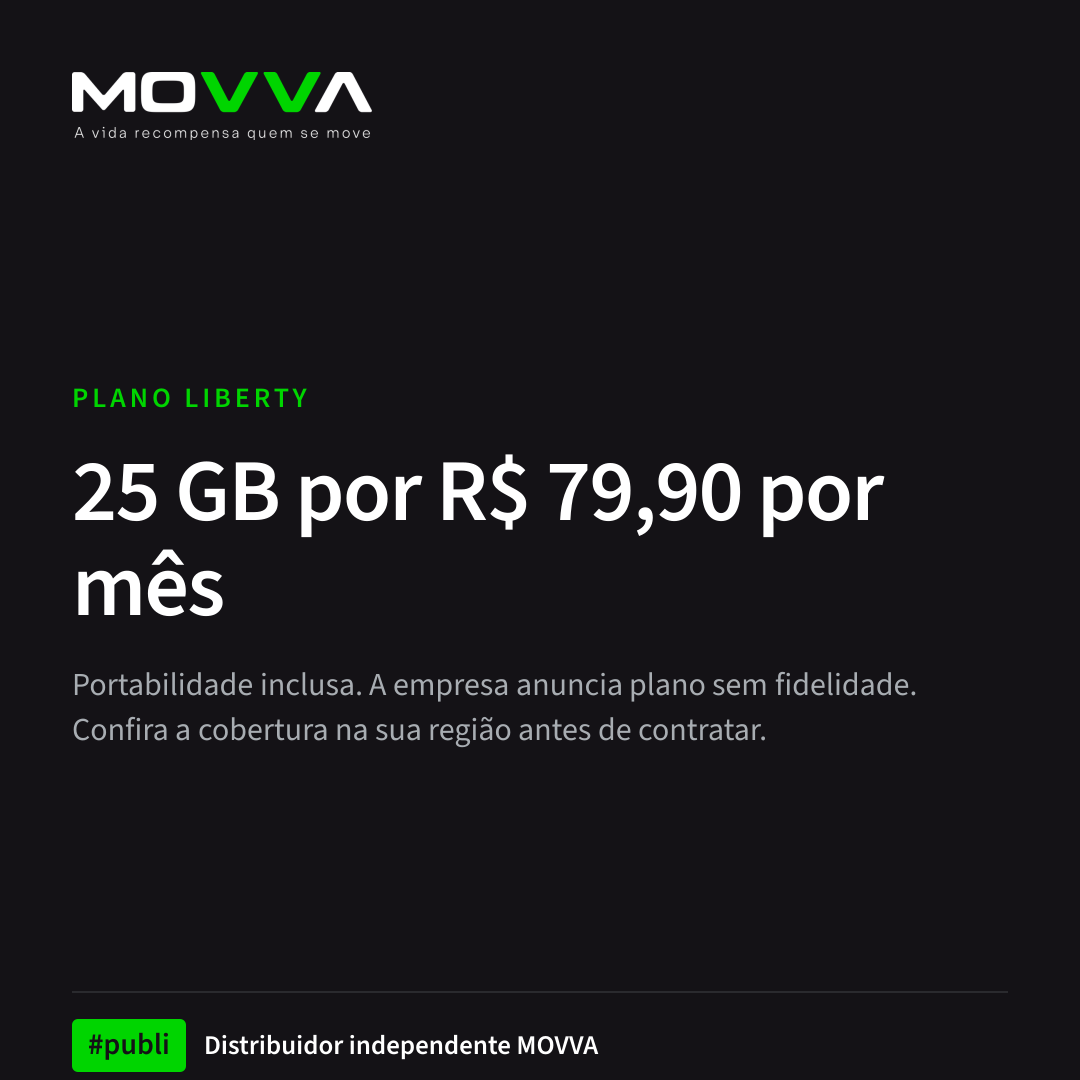
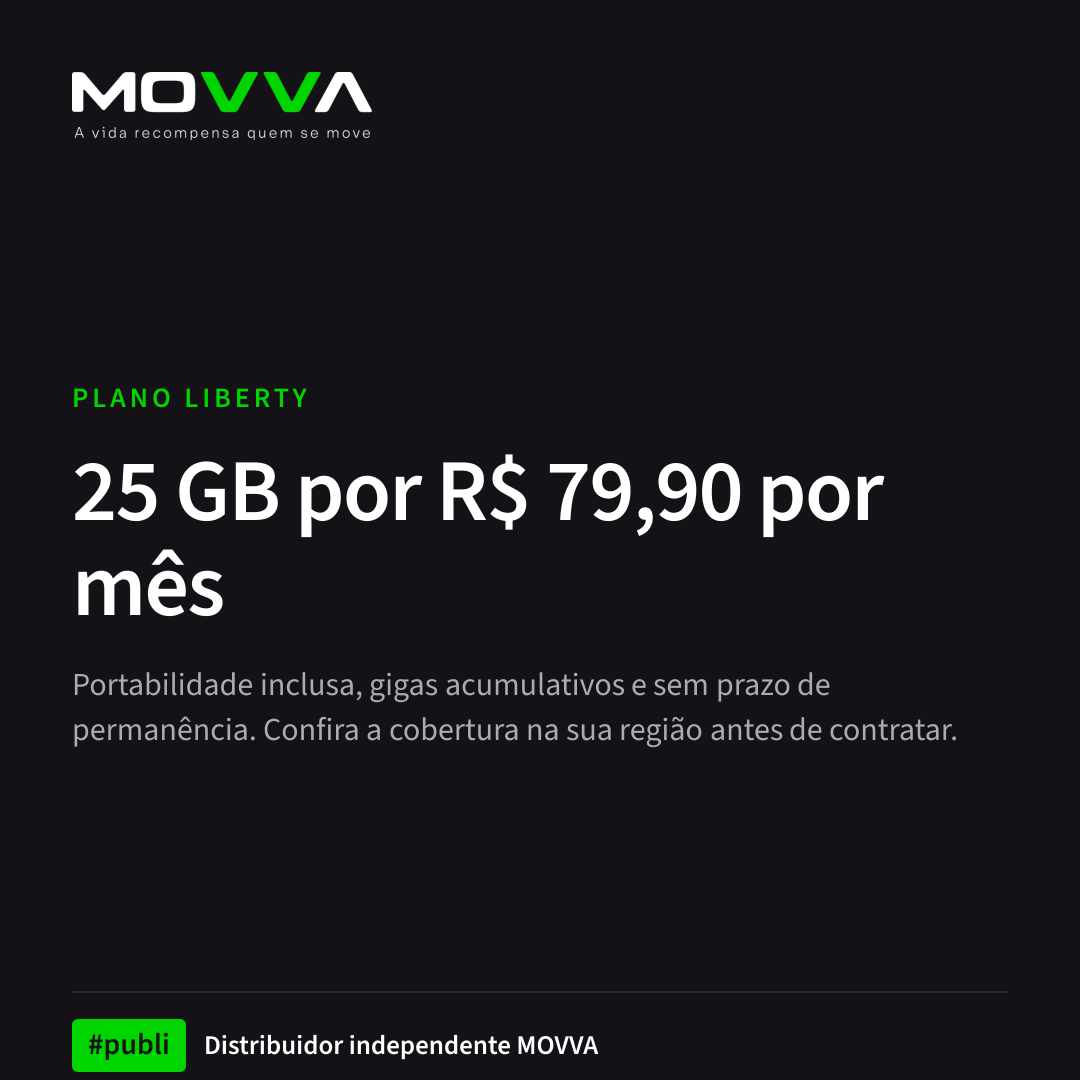
publicar: Tirar os selos de duvida: o documento oficial da empresa existe
O dono do site apontou que 'A empresa anuncia' em cinco dos seis cartoes fazia
a pagina parecer desconfiar do proprio produto, e que as caracteristicas ja
estavam confirmadas. Ele estava certo, e a verificacao mostrou por que.

O documento 'Diferenciais planos de telefonia MOVVA', da propria empresa,
estava na pasta do projeto o tempo todo. Ele lista seis diferenciais, nesta
ordem: dupla conectividade TIM e Vivo num unico chip, gigas acumulativos
infinitos, cliente pode zerar a conta, MOVVA Club, nao tem fidelidade e
portabilidade. Sao os seis que a home agora mostra, escritos como a empresa os
publica, sem selo.

As duas versoes anteriores erraram pelo mesmo motivo: ninguem tinha aberto o
documento. A primeira afirmava sem fonte; a segunda punha duvida onde havia
fonte. Documento da empresa e fonte, e fonte se cita com confianca.

Fica separado o que e meu e nao dela: o teste de campo. O cartao da secao de
credibilidade deixou de dizer 'Em aberto / a dupla conectividade que a empresa
anuncia' e passou a dizer 'Falta eu testar / a dupla conectividade em campo'.
A diferenca importa: um lanca duvida sobre o produto, o outro declara o estado
do meu trabalho.

Alinhados ao mesmo achado: os tres criativos de anuncio, que hedgeavam sem
precisar; chip-dois-sinais.md, que dizia nao ter localizado fonte da empresa; e
internet-que-acumula.md, cuja lacuna agora e so o regulamento da oferta, nao a
existencia da caracteristica.
[…]

Changed region(s): [[0.0611, 0.6111, 0.8861, 0.7028]]

diff --git a/index.html b/index.html
@@ -1,6 +1,6 @@
-<!DOCTYPE html><html lang="pt-BR" class="raiz-escura" data-astro-cid-5hce7sga> <head><meta charset="utf-8"><meta name="viewport" content="width=device-width, initial-scale=1, viewport-fit=cover"><title>Chip MOVVA: 25 GB por R$ 79,90 com portabilidade inclusa</title><meta name="description" content="Planos MOVVA de 10 a 50 GB, a partir de R$ 58,90. A empresa anuncia planos sem prazo de permanência e com giga acumulativo; aqui está o que dá para conferir em registro público e o que não dá."><link rel="canonical" href="https://movvabrasil.net/"><meta property="og:type" content="website"><meta property="og:site_name" content="Movva Brasil .net"><meta property="og:locale" content="pt_BR"><meta property="og:title" content="Chip MOVVA: 25 GB por R$ 79,90 com portabilidade inclusa"><meta property="og:description" content="Planos MOVVA de 10 a 50 GB, a partir de R$ 58,90. A empresa anuncia planos sem prazo de permanência e com giga acumulativo; aqui está o que dá para conferir em registro público e o que não dá."><meta property="og:url" content="https://movvabrasil.net/"><meta property="og:image" content="https://movvabrasil.net/og/home.png"><meta property="og:image:type" content="image/png"><meta property="og:image:width" content="1200"><meta property="og:image:height" content="630"><meta property="og:image:alt" content="Imagem de compartilhamento: Chip MOVVA: 25 GB por R$ 79,90 com portabilidade inclusa"><meta name="twitter:card" content="summary_large_image"><meta name="twitter:image" content="https://movvabrasil.net/og/home.png"><meta name="twitter:title" content="Chip MOVVA: 25 GB por R$ 79,90 com portabilidade inclusa"><meta name="twitter:description" content="Planos MOVVA de 10 a 50 GB, a partir de R$ 58,90. A empresa anuncia planos sem prazo de permanência e com giga acumulativo; aqui está o que dá para conferir em registro público e o que não dá."><meta name="author" content="Romário Gomes de Paula"><meta name="last-modified" content="2026-10-21"><link rel="preconnect" href="https://fonts.googleapis.com"><link rel="preconnect" href="https://fonts.gstatic.com" crossorigin><!-- IBM Plex: família desenhada para uma empresa de tecnologia, com Sans e
+<!DOCTYPE html><html lang="pt-BR" class="raiz-escura" data-astro-cid-5hce7sga> <head><meta charset="utf-8"><meta name="viewport" content="width=device-width, initial-scale=1, viewport-fit=cover"><title>Chip MOVVA: 25 GB por R$ 79,90 com portabilidade inclusa</title><meta name="description" content="Planos MOVVA de 10 a 50 GB, a partir de R$ 58,90. TIM e Vivo no mesmo chip, gigas acumulativos, sem prazo de permanência e portabilidade inclusa — com os registros públicos da empresa à mão."><link rel="canonical" href="https://movvabrasil.net/"><meta property="og:type" content="website"><meta property="og:site_name" content="Movva Brasil .net"><meta property="og:locale" content="pt_BR"><meta property="og:title" content="Chip MOVVA: 25 GB por R$ 79,90 com portabilidade inclusa"><meta property="og:description" content="Planos MOVVA de 10 a 50 GB, a partir de R$ 58,90. TIM e Vivo no mesmo chip, gigas acumulativos, sem prazo de permanência e portabilidade inclusa — com os registros públicos da empresa à mão."><meta property="og:url" content="https://movvabrasil.net/"><meta property="og:image" content="https://movvabrasil.net/og/home.png"><meta property="og:image:type" content="image/png"><meta property="og:image:width" content="1200"><meta property="og:image:height" content="630"><meta property="og:image:alt" content="Imagem de compartilhamento: Chip MOVVA: 25 GB por R$ 79,90 com portabilidade inclusa"><meta name="twitter:card" content="summary_large_image"><meta name="twitter:image" content="https://movvabrasil.net/og/home.png"><meta name="twitter:title" content="Chip MOVVA: 25 GB por R$ 79,90 com portabilidade inclusa"><meta name="twitter:description" content="Planos MOVVA de 10 a 50 GB, a partir de R$ 58,90. TIM e Vivo no mesmo chip, gigas acumulativos, sem prazo de permanência e portabilidade inclusa — com os registros públicos da empresa à mão."><meta name="author" content="Romário Gomes de Paula"><meta name="last-modified" content="2026-10-21"><link rel="preconnect" href="https://fonts.googleapis.com"><link rel="preconnect" href="https://fonts.gstatic.com" crossorigin><!-- IBM Plex: família desenhada para uma empresa de tecnologia, com Sans e
        Mono que foram feitos juntos. O Mono não é enfeite aqui: ele marca
-       identificador real — CNPJ, número de ato, processo, código de rede. --><link rel="stylesheet" href="https://fonts.googleapis.com/css2?family=IBM+Plex+Mono:wght@400;500&family=IBM+Plex+Sans:wght@400;500;600;700&display=swap"><script type="application/ld+json">{"@context":"https://schema.org","@graph":[{"@type":"WebSite","@id":"https://movvabrasil.net/#site","url":"https://movvabrasil.net","name":"Movva Brasil .net","description":"Site de distribuidor independente. Não é canal oficial da MOVVA Brasil Ltda.","inLanguage":"pt-BR","publisher":{"@id":"https://movvabrasil.net/#autor"}},{"@type":"Person","@id":"https://movvabrasil.net/#autor","name":"Romário Gomes de Paula","jobTitle":"Distribuidor independente MOVVA","url":"https://movvabrasil.net","sameAs":[]},{"@type":"Organization","@id":"https://movvabrasil.net/#movva","name":"MOVVA BRASIL LTDA","alternateName":"MOVVA","taxID":"28.450.689/0001-75","url":"https://movvabrasil.com","sameAs":["https://movvabrasil.com"],"address":{"@type":"PostalAddress","streetAddress":"Avenida Paulista, 1842, Conjunto 178","addressLocality":"São Paulo","addressRegion":"SP","postalCode":"01310-923","addressCountry":"BR"}},{"@type":"WebPage","@id":"https://movvabrasil.net/#pagina","url":"https://movvabrasil.net/","name":"Chip MOVVA: 25 GB por R$ 79,90 com portabilidade inclusa","description":"Planos MOVVA de 10 a 50 GB, a partir de R$ 58,90. A empresa anuncia planos sem prazo de permanência e com giga acumulativo; aqui está o que dá para conferir em registro público e o que não dá.","inLanguage":"pt-BR","isPartOf":{"@id":"https://movvabrasil.net/#site"},"author":{"@id":"https://movvabrasil.net/#autor"},"about":{"@id":"https://movvabrasil.net/#movva"},"image":"https://movvabrasil.net/og/home.png","dateModified":"2026-10-21"}]}</script><link rel="stylesheet" href="/_astro/avisos-legais.D1HmvgaK.css">
+       identificador real — CNPJ, número de ato, processo, código de rede. --><link rel="stylesheet" href="https://fonts.googleapis.com/css2?family=IBM+Plex+Mono:wght@400;500&family=IBM+Plex+Sans:wght@400;500;600;700&display=swap"><script type="application/ld+json">{"@context":"https://schema.org","@graph":[{"@type":"WebSite","@id":"https://movvabrasil.net/#site","url":"https://movvabrasil.net","name":"Movva Brasil .net","description":"Site de distribuidor independente. Não é canal oficial da MOVVA Brasil Ltda.","inLanguage":"pt-BR","publisher":{"@id":"https://movvabrasil.net/#autor"}},{"@type":"Person","@id":"https://movvabrasil.net/#autor","name":"Romário Gomes de Paula","jobTitle":"Distribuidor independente MOVVA","url":"https://movvabrasil.net","sameAs":[]},{"@type":"Organization","@id":"https://movvabrasil.net/#movva","name":"MOVVA BRASIL LTDA","alternateName":"MOVVA","taxID":"28.450.689/0001-75","url":"https://movvabrasil.com","sameAs":["https://movvabrasil.com"],"address":{"@type":"PostalAddress","streetAddress":"Avenida Paulista, 1842, Conjunto 178","addressLocality":"São Paulo","addressRegion":"SP","postalCode":"01310-923","addressCountry":"BR"}},{"@type":"WebPage","@id":"https://movvabrasil.net/#pagina","url":"https://movvabrasil.net/","name":"Chip MOVVA: 25 GB por R$ 79,90 com portabilidade inclusa","description":"Planos MOVVA de 10 a 50 GB, a partir de R$ 58,90. TIM e Vivo no mesmo chip, gigas acumulativos, sem prazo de permanência e portabilidade inclusa — com os registros públicos da empresa à mão.","inLanguage":"pt-BR","isPartOf":{"@id":"https://movvabrasil.net/#site"},"author":{"@id":"https://movvabrasil.net/#autor"},"about":{"@id":"https://movvabrasil.net/#movva"},"image":"https://movvabrasil.net/og/home.png","dateModified":"2026-10-21"}]}</script><link rel="stylesheet" href="/_astro/avisos-legais.D1HmvgaK.css">
 <style>.proximo[data-astro-cid-i42qwlex]{display:grid;grid-template-columns:1.3fr 1fr;gap:1.5rem;margin-top:2.5rem;padding-top:2rem;border-top:2px solid var(--rule)}@media(max-width:38rem){.proximo[data-astro-cid-i42qwlex]{grid-template-columns:1fr}}.proximo__principal[data-astro-cid-i42qwlex],.proximo__secundario[data-astro-cid-i42qwlex]{display:flex;flex-direction:column;gap:.7rem;min-width:0}.proximo__secundario[data-astro-cid-i42qwlex]{background:var(--surface);border:1px solid var(--rule);border-radius:5px;padding:1.2rem}.proximo[data-astro-cid-i42qwlex] h2[data-astro-cid-i42qwlex]{font-size:1.5rem}.proximo[data-astro-cid-i42qwlex] h3[data-astro-cid-i42qwlex]{font-size:1.02rem}.proximo[data-astro-cid-i42qwlex] p[data-astro-cid-i42qwlex]{margin:0}
 </style>
 <link rel="stylesheet" href="/_astro/index.DNFeSZn2.css"></head> <body class="escuro" data-astro-cid-5hce7sga> <a class="pular" href="#conteudo" data-astro-cid-5hce7sga>Pular para o conteúdo</a> <header class="cabecalho" data-astro-cid-5hce7sga> <div class="wrap wrap--wide cabecalho__linha" data-astro-cid-5hce7sga> <!-- O logotipo é da MOVVA; o ".net" ao lado é o que diz de quem é o site.
@@ -11,9 +11,15 @@
              com a autorização e o CNPJ da empresa. O conserto é de três
              palavras. O texto vai dentro de um span: solto, ele virava um item
              flex anônimo e no celular o CNPJ pulava para o canto da primeira
-             linha enquanto o rótulo quebrava embaixo. --> <p class="selo" data-astro-cid-j7pv25f6> <span class="selo__ponto" aria-hidden="true" data-astro-cid-j7pv25f6></span> <span data-astro-cid-j7pv25f6>MOVVA Brasil Ltda, autorizada pela Anatel · CNPJ <span class="dado" data-astro-cid-j7pv25f6>28.450.689/0001-75</span></span> </p> <h1 data-astro-cid-j7pv25f6>Leve o seu número.<br data-astro-cid-j7pv25f6><span class="brilho" data-astro-cid-j7pv25f6>Pague R$ 79,90 por 25 GB.</span></h1> <p class="hero__sub" data-astro-cid-j7pv25f6>
-Chip MOVVA com portabilidade inclusa. A empresa anuncia plano sem fidelidade
-          e com giga acumulativo — e eu marco na página o que confirmei e o que não.
+             linha enquanto o rótulo quebrava embaixo. --> <p class="selo" data-astro-cid-j7pv25f6> <span class="selo__ponto" aria-hidden="true" data-astro-cid-j7pv25f6></span> <span data-astro-cid-j7pv25f6>MOVVA Brasil Ltda, autorizada pela Anatel · CNPJ <span class="dado" data-astro-cid-j7pv25f6>28.450.689/0001-75</span></span> </p> <!-- A versão anterior era "Leve o seu número. / Pague R$ 79,90 por 25 GB."
+             Três defeitos: "leve" é imperativo de levar e adjetivo ao mesmo
+             tempo, e o olho tropeça; "leve o número" não diz para onde; e eram
+             dois comandos seguidos, sendo o segundo uma ordem para pagar, que é
+             o avesso do que uma primeira tela deve fazer.
+             Agora: constatação na primeira linha, oferta concreta na segunda. --> <h1 data-astro-cid-j7pv25f6>Você muda de operadora, não de número.<br data-astro-cid-j7pv25f6><span class="brilho" data-astro-cid-j7pv25f6>Chip MOVVA: 25&nbsp;GB por R$&nbsp;79,90.</span></h1> <!-- Não repete "chip MOVVA", que o título acabou de dizer duas linhas
+             acima: título e subtítulo não podem gastar o mesmo argumento. --> <p class="hero__sub" data-astro-cid-j7pv25f6>
+Portabilidade inclusa, gigas que acumulam e sem prazo de permanência.
+          E os registros públicos da empresa à mão, para você conferir.
 </p> <!-- Conexão material, antes dos botões e acima da dobra: o CDC art. 36
              pede que a publicidade seja identificável "fácil e imediatamente",
              e esta página tem oito botões de contratação. Fica depois da
@@ -24,9 +30,7 @@ Por Romário Gomes de Paula, Distribuidor independente MOVVA. Recebo comissão s
 </p> <div class="hero__acoes" data-astro-cid-j7pv25f6> <a class="btn btn--grande" href="https://wa.me/5531995530396?text=Oi%2C%20Rom%C3%A1rio.%20Vi%20o%20seu%20site%20e%20quero%20entender%20o%20plano%20de%20celular%20da%20MOVVA." rel="nofollow sponsored noopener" target="_blank" data-astro-cid-j7pv25f6>
 Falar comigo e contratar
 </a> <a class="btn btn--ghost btn--grande" href="#planos" data-astro-cid-j7pv25f6>Ver planos e preços</a> </div> <ul class="pilulas" data-astro-cid-j7pv25f6> <li data-astro-cid-j7pv25f6>Portabilidade inclusa</li> <li data-astro-cid-j7pv25f6>De 10 a 50 GB</li> <li data-astro-cid-j7pv25f6>Registros públicos à mão</li> </ul> </div> <!-- O cartão de oferta é o objeto mais luminoso da página. Tudo o que
-           vem depois é mais quieto, de propósito. A lista inteira é o que a
-           empresa anuncia, e o chapéu da lista diz isso uma vez, em vez de
-           repetir a ressalva em cada item. --> <aside class="oferta borda-luz" data-astro-cid-j7pv25f6> <p class="oferta__chapeu" data-astro-cid-j7pv25f6>A minha recomendação</p> <p class="oferta__nome" data-astro-cid-j7pv25f6>MOVVA Liberty</p> <p class="oferta__gb brilho" data-astro-cid-j7pv25f6>25 GB</p> <p class="oferta__preco" data-astro-cid-j7pv25f6> <span data-astro-cid-j7pv25f6>R$</span><strong data-astro-cid-j7pv25f6>79</strong><span data-astro-cid-j7pv25f6>,90</span><small data-astro-cid-j7pv25f6>/mês</small> </p> <p class="oferta__fonte" data-astro-cid-j7pv25f6>O que a empresa anuncia no plano:</p> <ul class="oferta__itens" data-astro-cid-j7pv25f6> <li data-astro-cid-j7pv25f6>Ligações e WhatsApp ilimitados</li> <li data-astro-cid-j7pv25f6>Portabilidade inclusa</li> <li data-astro-cid-j7pv25f6>Gigas acumulativos</li> <li data-astro-cid-j7pv25f6>Sem prazo de permanência</li> </ul> <a class="btn" href="https://wa.me/5531995530396?text=Oi%2C%20Rom%C3%A1rio.%20Vi%20o%20seu%20site%20e%20quero%20entender%20o%20plano%20de%20celular%20da%20MOVVA." rel="nofollow sponsored noopener" target="_blank" data-astro-cid-j7pv25f6>
+           vem depois é mais quieto, de propósito. --> <aside class="oferta borda-luz" data-astro-cid-j7pv25f6> <p class="oferta__chapeu" data-astro-cid-j7pv25f6>A minha recomendação</p> <p class="oferta__nome" data-astro-cid-j7pv25f6>MOVVA Liberty</p> <p class="oferta__gb brilho" data-astro-cid-j7pv25f6>25 GB</p> <p class="oferta__preco" data-astro-cid-j7pv25f6> <span data-astro-cid-j7pv25f6>R$</span><strong data-astro-cid-j7pv25f6>79</strong><span data-astro-cid-j7pv25f6>,90</span><small data-astro-cid-j7pv25f6>/mês</small> </p> <p class="oferta__fonte" data-astro-cid-j7pv25f6>O que vem no plano:</p> <ul class="oferta__itens" data-astro-cid-j7pv25f6> <li data-astro-cid-j7pv25f6>TIM e Vivo no mesmo chip</li> <li data-astro-cid-j7pv25f6>Gigas acumulativos infinitos</li> <li data-astro-cid-j7pv25f6>Portabilidade inclusa</li> <li data-astro-cid-j7pv25f6>Sem prazo de permanência</li> </ul> <a class="btn" href="https://wa.me/5531995530396?text=Oi%2C%20Rom%C3%A1rio.%20Vi%20o%20seu%20site%20e%20quero%20entender%20o%20plano%20de%20celular%20da%20MOVVA." rel="nofollow sponsored noopener" target="_blank" data-astro-cid-j7pv25f6>
 Quero este plano
 </a> </aside> </div> </section>  <section class="faixa" data-astro-cid-j7pv25f6> <div class="wrap wrap--wide stack" data-astro-cid-j7pv25f6> <header class="cabeca" data-astro-cid-j7pv25f6> <h2 data-astro-cid-j7pv25f6>Como a MOVVA entrega sinal sem ter antena</h2> <!-- A analogia é da empresa e fica marcada como analogia. A versão
              anterior fechava com "e isso é previsto em lei", o que a
@@ -59,14 +63,11 @@ Os dois modelos previstos no Capítulo XII da Resolução Anatel nº 777/2025.
 Antes de contratar, vale conferir a cobertura no seu endereço.
 <a href="/blog/operadora-virtual-pega-bem" data-astro-cid-j7pv25f6>Eu explico como fazer isso em cinco minutos</a>.
 </p> </div> </section>  <section data-astro-cid-j7pv25f6> <div class="wrap wrap--wide stack" data-astro-cid-j7pv25f6> <header class="cabeca" data-astro-cid-j7pv25f6> <h2 data-astro-cid-j7pv25f6>O que vem no plano</h2> <p class="lede" data-astro-cid-j7pv25f6>
-Os mesmos itens em todos os planos; entre eles muda só a franquia de
-          dados. O que leva o selo <span class="estado estado--anunciado" data-astro-cid-j7pv25f6>A empresa anuncia</span>
-é cláusula do regulamento da oferta, que eu ainda não li.
-</p> </header> <div class="beneficios" data-astro-cid-j7pv25f6> <article class="beneficio" data-astro-cid-j7pv25f6> <h3 data-astro-cid-j7pv25f6>Dupla conectividade</h3> <p data-astro-cid-j7pv25f6>A empresa anuncia dupla conectividade TIM e Vivo no mesmo chip. Qual mecanismo seria usado é algo que eu não confirmei, e eu não testei.</p> <a class="beneficio__link" href="/blog/chip-dois-sinais" data-astro-cid-j7pv25f6>O que existe de verdade em &quot;chip de duas redes&quot;</a> <span class="estado estado--anunciado" data-astro-cid-j7pv25f6>A empresa anuncia</span> </article><article class="beneficio" data-astro-cid-j7pv25f6> <h3 data-astro-cid-j7pv25f6>Gigas acumulativos</h3> <p data-astro-cid-j7pv25f6>A empresa informa que o que você não usou passa para o ciclo seguinte, desde que a fatura seja paga até o vencimento. Não localizei o regulamento da oferta em fonte primária.</p> <a class="beneficio__link" href="/blog/internet-que-acumula" data-astro-cid-j7pv25f6>O que eu verifiquei sobre franquia que acumula</a> <span class="estado estado--anunciado" data-astro-cid-j7pv25f6>A empresa anuncia</span> </article><article class="beneficio" data-astro-cid-j7pv25f6> <h3 data-astro-cid-j7pv25f6>Portabilidade inclusa</h3> <p data-astro-cid-j7pv25f6>Você mantém o número que já tem. Pela regra da Anatel, o processo tem prazo de até 3 dias úteis e a conclusão não pode passar de 5, com até 2 horas de linha indisponível na troca. Para você, não há custo.</p> <a class="beneficio__link" href="/blog/portabilidade-sem-perder-o-numero" data-astro-cid-j7pv25f6>Prazo, custo e como desistir</a>  </article><article class="beneficio" data-astro-cid-j7pv25f6> <h3 data-astro-cid-j7pv25f6>Sem fidelidade</h3> <p data-astro-cid-j7pv25f6>A empresa anuncia planos sem prazo de permanência e sem multa de cancelamento. Eu não li o contrato: peça por escrito qual é o prazo em meses, qual o benefício em troca e como a multa é calculada.</p> <a class="beneficio__link" href="/blog/operadora-sem-fidelidade" data-astro-cid-j7pv25f6>Por que isso não é garantia do modelo</a> <span class="estado estado--anunciado" data-astro-cid-j7pv25f6>A empresa anuncia</span> </article><article class="beneficio" data-astro-cid-j7pv25f6> <h3 data-astro-cid-j7pv25f6>Ligações e WhatsApp</h3> <p data-astro-cid-j7pv25f6>A empresa anuncia chamadas ilimitadas para qualquer operadora e WhatsApp fora da franquia. Peça a política de uso justo por escrito antes de contratar.</p>  <span class="estado estado--anunciado" data-astro-cid-j7pv25f6>A empresa anuncia</span> </article><article class="beneficio" data-astro-cid-j7pv25f6> <h3 data-astro-cid-j7pv25f6>MOVVA Club</h3> <p data-astro-cid-j7pv25f6>A empresa anuncia clube de descontos e cashback incluído no plano, sem custo separado. Não conferi as condições.</p>  <span class="estado estado--anunciado" data-astro-cid-j7pv25f6>A empresa anuncia</span> </article> </div> </div> </section>  <section class="faixa" data-astro-cid-j7pv25f6> <div class="wrap wrap--wide stack" data-astro-cid-j7pv25f6> <header class="cabeca" data-astro-cid-j7pv25f6> <h2 data-astro-cid-j7pv25f6>Operadora virtual ou tradicional?</h2> <p class="lede" data-astro-cid-j7pv25f6>A diferença não está no sinal — está em quem cuida do quê.</p> </header> <div class="table-scroll" data-astro-cid-j7pv25f6> <table data-astro-cid-j7pv25f6> <thead data-astro-cid-j7pv25f6> <tr data-astro-cid-j7pv25f6> <th scope="col" data-astro-cid-j7pv25f6>No dia a dia</th> <th scope="col" data-astro-cid-j7pv25f6>Virtual (MOVVA)</th> <th scope="col" data-astro-cid-j7pv25f6>Tradicional</th> </tr> </thead> <tbody data-astro-cid-j7pv25f6> <tr data-astro-cid-j7pv25f6> <th scope="row" data-astro-cid-j7pv25f6>Cobertura</th> <td data-astro-cid-j7pv25f6>A da rede hospedeira</td> <td data-astro-cid-j7pv25f6>A da própria rede</td> </tr> <tr data-astro-cid-j7pv25f6> <th scope="row" data-astro-cid-j7pv25f6>Prioridade em horário de pico</th> <td data-astro-cid-j7pv25f6>Pode ficar atrás do tráfego da hospedeira</td> <td data-astro-cid-j7pv25f6>Tráfego próprio</td> </tr> <tr data-astro-cid-j7pv25f6> <!-- Fidelidade é cláusula de contrato, não propriedade do modelo:
+Os seis diferenciais que a MOVVA publica no material oficial de planos.
+          Valem em todos — entre um plano e outro muda só a franquia de dados.
+</p> </header> <div class="beneficios" data-astro-cid-j7pv25f6> <article class="beneficio" data-astro-cid-j7pv25f6> <h3 data-astro-cid-j7pv25f6>Dupla conectividade</h3> <p data-astro-cid-j7pv25f6>Duas redes num único chip: TIM e Vivo. Mais cobertura do que depender de uma rede só.</p> <a class="beneficio__link" href="/blog/chip-dois-sinais" data-astro-cid-j7pv25f6>Como funciona um chip de duas redes</a> </article><article class="beneficio" data-astro-cid-j7pv25f6> <h3 data-astro-cid-j7pv25f6>Gigas acumulativos</h3> <p data-astro-cid-j7pv25f6>Infinitos. O que você não usou no mês não vira pó: fica para o ciclo seguinte.</p> <a class="beneficio__link" href="/blog/internet-que-acumula" data-astro-cid-j7pv25f6>O que muda quando a franquia acumula</a> </article><article class="beneficio" data-astro-cid-j7pv25f6> <h3 data-astro-cid-j7pv25f6>Sem fidelidade</h3> <p data-astro-cid-j7pv25f6>Não tem prazo de permanência. Se não servir para você, sai sem multa de cancelamento.</p> <a class="beneficio__link" href="/blog/operadora-sem-fidelidade" data-astro-cid-j7pv25f6>O que a lei garante sobre fidelidade</a> </article><article class="beneficio" data-astro-cid-j7pv25f6> <h3 data-astro-cid-j7pv25f6>Portabilidade inclusa</h3> <p data-astro-cid-j7pv25f6>Você mantém o número que já tem. Pela regra da Anatel o processo leva até 3 dias úteis e, para você, não tem custo.</p> <a class="beneficio__link" href="/blog/portabilidade-sem-perder-o-numero" data-astro-cid-j7pv25f6>Prazo, custo e como desistir</a> </article><article class="beneficio" data-astro-cid-j7pv25f6> <h3 data-astro-cid-j7pv25f6>MOVVA Club</h3> <p data-astro-cid-j7pv25f6>Clube de benefícios incluído no plano, com descontos e cashback, sem custo separado.</p>  </article><article class="beneficio" data-astro-cid-j7pv25f6> <h3 data-astro-cid-j7pv25f6>Dá para zerar a conta</h3> <p data-astro-cid-j7pv25f6>Indicando outras pessoas, o desconto pode cobrir a sua mensalidade inteira. É diferencial de plano, não promessa de renda.</p> <a class="beneficio__link" href="/oportunidade" data-astro-cid-j7pv25f6>Como funciona, com os meus números reais</a> </article> </div> </div> </section>  <section class="faixa" data-astro-cid-j7pv25f6> <div class="wrap wrap--wide stack" data-astro-cid-j7pv25f6> <header class="cabeca" data-astro-cid-j7pv25f6> <h2 data-astro-cid-j7pv25f6>Operadora virtual ou tradicional?</h2> <p class="lede" data-astro-cid-j7pv25f6>A diferença não está no sinal — está em quem cuida do quê.</p> </header> <div class="table-scroll" data-astro-cid-j7pv25f6> <table data-astro-cid-j7pv25f6> <thead data-astro-cid-j7pv25f6> <tr data-astro-cid-j7pv25f6> <th scope="col" data-astro-cid-j7pv25f6>No dia a dia</th> <th scope="col" data-astro-cid-j7pv25f6>Virtual (MOVVA)</th> <th scope="col" data-astro-cid-j7pv25f6>Tradicional</th> </tr> </thead> <tbody data-astro-cid-j7pv25f6> <tr data-astro-cid-j7pv25f6> <th scope="row" data-astro-cid-j7pv25f6>Cobertura</th> <td data-astro-cid-j7pv25f6>A da rede hospedeira</td> <td data-astro-cid-j7pv25f6>A da própria rede</td> </tr> <tr data-astro-cid-j7pv25f6> <th scope="row" data-astro-cid-j7pv25f6>Prioridade em horário de pico</th> <td data-astro-cid-j7pv25f6>Pode ficar atrás do tráfego da hospedeira</td> <td data-astro-cid-j7pv25f6>Tráfego próprio</td> </tr> <tr data-astro-cid-j7pv25f6> <!-- Fidelidade é cláusula de contrato, não propriedade do modelo:
                    os arts. 36 e 37 do RGC valem para os dois lados, e o teto de
-                   12 meses é limite legal, não média levantada. --> <th scope="row" data-astro-cid-j7pv25f6>Fidelidade</th> <td data-astro-cid-j7pv25f6>
-Depende do contrato. A MOVVA anuncia sem prazo de permanência — eu não li o contrato.
-</td> <td data-astro-cid-j7pv25f6>Pode ter prazo: teto de 12 meses e multa proporcional ao tempo restante (RGC, arts. 36 e 37) — regra que vale para os dois modelos</td> </tr> <tr data-astro-cid-j7pv25f6> <th scope="row" data-astro-cid-j7pv25f6>Loja física</th> <td data-astro-cid-j7pv25f6>Atendimento remoto</td> <td data-astro-cid-j7pv25f6>Rede de lojas</td> </tr> </tbody> </table> </div> <p class="meta-line" data-astro-cid-j7pv25f6>
+                   12 meses é limite legal, não média levantada. --> <th scope="row" data-astro-cid-j7pv25f6>Fidelidade</th> <td data-astro-cid-j7pv25f6>A MOVVA publica que não tem prazo de permanência</td> <td data-astro-cid-j7pv25f6>Pode ter prazo: teto de 12 meses e multa proporcional ao tempo restante (RGC, arts. 36 e 37) — regra que vale para os dois modelos</td> </tr> <tr data-astro-cid-j7pv25f6> <th scope="row" data-astro-cid-j7pv25f6>Loja física</th> <td data-astro-cid-j7pv25f6>Atendimento remoto</td> <td data-astro-cid-j7pv25f6>Rede de lojas</td> </tr> </tbody> </table> </div> <p class="meta-line" data-astro-cid-j7pv25f6>
 Comparo modelos, não marcas: dizer que uma operadora específica é pior
         exigiria prova de cada linha, e eu não tenho. Franquia que acumula não
         entra na tabela porque não é diferença de modelo — é o regulamento de
@@ -80,7 +81,9 @@ Preços conferidos no material oficial em 21 de outubro de 2026 —
 </p> </header> <div class="planos" data-astro-cid-j7pv25f6> <article class="plano" data-astro-cid-j7pv25f6>  <p class="plano__nome" data-astro-cid-j7pv25f6>MOVVA Start</p> <p class="plano__gb" data-astro-cid-j7pv25f6>10 GB</p> <p class="plano__preco" data-astro-cid-j7pv25f6>R$ <strong data-astro-cid-j7pv25f6>58,90</strong><small data-astro-cid-j7pv25f6>/mês</small></p> <p class="plano__nota" data-astro-cid-j7pv25f6>Para quem usa pouco dado</p> <a class="btn btn--sm btn--ghost" href="https://wa.me/5531995530396?text=Oi%2C%20Rom%C3%A1rio.%20Vi%20o%20seu%20site%20e%20quero%20entender%20o%20plano%20de%20celular%20da%20MOVVA." rel="nofollow sponsored noopener" target="_blank" data-astro-cid-j7pv25f6>Contratar</a> </article><article class="plano" data-astro-cid-j7pv25f6>  <p class="plano__nome" data-astro-cid-j7pv25f6>MOVVA Plus</p> <p class="plano__gb" data-astro-cid-j7pv25f6>15 GB</p> <p class="plano__preco" data-astro-cid-j7pv25f6>R$ <strong data-astro-cid-j7pv25f6>73,90</strong><small data-astro-cid-j7pv25f6>/mês</small></p> <p class="plano__nota" data-astro-cid-j7pv25f6>Uso leve com folga</p> <a class="btn btn--sm btn--ghost" href="https://wa.me/5531995530396?text=Oi%2C%20Rom%C3%A1rio.%20Vi%20o%20seu%20site%20e%20quero%20entender%20o%20plano%20de%20celular%20da%20MOVVA." rel="nofollow sponsored noopener" target="_blank" data-astro-cid-j7pv25f6>Contratar</a> </article><article class="plano plano--destaque borda-luz" data-astro-cid-j7pv25f6> <span class="plano__selo" data-astro-cid-j7pv25f6>Eu recomendo</span> <p class="plano__nome" data-astro-cid-j7pv25f6>MOVVA Liberty</p> <p class="plano__gb brilho" data-astro-cid-j7pv25f6>25 GB</p> <p class="plano__preco" data-astro-cid-j7pv25f6>R$ <strong data-astro-cid-j7pv25f6>79,90</strong><small data-astro-cid-j7pv25f6>/mês</small></p> <p class="plano__nota" data-astro-cid-j7pv25f6>O que eu mais indico</p> <a class="btn btn--sm" href="https://wa.me/5531995530396?text=Oi%2C%20Rom%C3%A1rio.%20Vi%20o%20seu%20site%20e%20quero%20entender%20o%20plano%20de%20celular%20da%20MOVVA." rel="nofollow sponsored noopener" target="_blank" data-astro-cid-j7pv25f6>Contratar</a> </article><article class="plano" data-astro-cid-j7pv25f6>  <p class="plano__nome" data-astro-cid-j7pv25f6>MOVVA Max</p> <p class="plano__gb" data-astro-cid-j7pv25f6>35 GB</p> <p class="plano__preco" data-astro-cid-j7pv25f6>R$ <strong data-astro-cid-j7pv25f6>96,90</strong><small data-astro-cid-j7pv25f6>/mês</small></p> <p class="plano__nota" data-astro-cid-j7pv25f6>Para quem trabalha no celular</p> <a class="btn btn--sm btn--ghost" href="https://wa.me/5531995530396?text=Oi%2C%20Rom%C3%A1rio.%20Vi%20o%20seu%20site%20e%20quero%20entender%20o%20plano%20de%20celular%20da%20MOVVA." rel="nofollow sponsored noopener" target="_blank" data-astro-cid-j7pv25f6>Contratar</a> </article><article class="plano" data-astro-cid-j7pv25f6>  <p class="plano__nome" data-astro-cid-j7pv25f6>MOVVA Ultra</p> <p class="plano__gb" data-astro-cid-j7pv25f6>50 GB</p> <p class="plano__preco" data-astro-cid-j7pv25f6>R$ <strong data-astro-cid-j7pv25f6>126,90</strong><small data-astro-cid-j7pv25f6>/mês</small></p> <p class="plano__nota" data-astro-cid-j7pv25f6>Para quem consome muito dado</p> <a class="btn btn--sm btn--ghost" href="https://wa.me/5531995530396?text=Oi%2C%20Rom%C3%A1rio.%20Vi%20o%20seu%20site%20e%20quero%20entender%20o%20plano%20de%20celular%20da%20MOVVA." rel="nofollow sponsored noopener" target="_blank" data-astro-cid-j7pv25f6>Contratar</a> </article> </div> </div> </section>  <section class="faixa" data-astro-cid-j7pv25f6> <div class="wrap wrap--wide stack" data-astro-cid-j7pv25f6> <header class="cabeca" data-astro-cid-j7pv25f6> <h2 data-astro-cid-j7pv25f6>Quem é a empresa por trás do chip</h2> <p class="lede" data-astro-cid-j7pv25f6>
 Em vez de pedir que você acredite, deixo os registros públicos à mão —
           e marco o que eu ainda não consegui confirmar.
-</p> </header> <div class="ficha" data-astro-cid-j7pv25f6> <div class="ficha__marca" data-astro-cid-j7pv25f6> <img src="/_astro/logo-movva-branca-verde.BOcg6-1G_2d8p0a.webp" srcset="/_astro/logo-movva-branca-verde.BOcg6-1G_2d8p0a.webp 1x, /_astro/logo-movva-branca-verde.BOcg6-1G_ZL8U0.webp 2x" alt="Logotipo da MOVVA" data-astro-cid-j7pv25f6="true" loading="lazy" decoding="async" fetchpriority="auto" width="300" height="68"> </div> <dl class="ficha__dados" data-astro-cid-j7pv25f6> <div data-astro-cid-j7pv25f6><dt data-astro-cid-j7pv25f6>Razão social</dt><dd data-astro-cid-j7pv25f6>MOVVA BRASIL LTDA</dd></div> <div data-astro-cid-j7pv25f6><dt data-astro-cid-j7pv25f6>CNPJ</dt><dd class="dado" data-astro-cid-j7pv25f6>28.450.689/0001-75</dd></div> <div data-astro-cid-j7pv25f6><dt data-astro-cid-j7pv25f6>Ativa desde</dt><dd data-astro-cid-j7pv25f6>18 de agosto de 2017</dd></div> <div data-astro-cid-j7pv25f6><dt data-astro-cid-j7pv25f6>Autorização</dt><dd data-astro-cid-j7pv25f6>Ato nº 9021, de 08 de julho de 2026</dd></div> </dl> </div> <div class="provas" data-astro-cid-j7pv25f6> <a class="prova" href="https://solucoes.receita.fazenda.gov.br/servicos/cnpjreva/cnpjreva_solicitacao.asp" rel="nofollow noopener" data-astro-cid-j7pv25f6> <span class="estado estado--verificado" data-astro-cid-j7pv25f6>Registro público</span> <span class="prova__dado" data-astro-cid-j7pv25f6>CNPJ <span class="dado" data-astro-cid-j7pv25f6>28.450.689/0001-75</span></span> <span class="prova__onde" data-astro-cid-j7pv25f6>Conferir na Receita Federal</span> </a> <a class="prova" href="https://sei.anatel.gov.br/sei/modulos/pesquisa/md_pesq_processo_pesquisar.php?acao_externa=protocolo_pesquisar&acao_origem_externa=protocolo_pesquisar&id_orgao_acesso_externo=0" rel="nofollow noopener" data-astro-cid-j7pv25f6> <span class="estado estado--verificado" data-astro-cid-j7pv25f6>Registro público</span> <span class="prova__dado" data-astro-cid-j7pv25f6>Ato Anatel <span class="dado" data-astro-cid-j7pv25f6>nº 9021</span></span> <span class="prova__onde" data-astro-cid-j7pv25f6>Processo <span class="dado" data-astro-cid-j7pv25f6>53500.063559/2026-13</span></span> </a> <div class="prova prova--aberta" data-astro-cid-j7pv25f6> <span class="estado estado--aberto" data-astro-cid-j7pv25f6>Em aberto</span> <span class="prova__dado" data-astro-cid-j7pv25f6>A dupla conectividade TIM + VIVO que a empresa anuncia</span> <span class="prova__onde" data-astro-cid-j7pv25f6>Contratei o plano, o chip não chegou e eu não testei</span> </div> </div> <p data-astro-cid-j7pv25f6> <a href="/movva-e-confiavel" data-astro-cid-j7pv25f6>Leia a análise completa</a>, com os riscos que
+</p> </header> <div class="ficha" data-astro-cid-j7pv25f6> <div class="ficha__marca" data-astro-cid-j7pv25f6> <img src="/_astro/logo-movva-branca-verde.BOcg6-1G_2d8p0a.webp" srcset="/_astro/logo-movva-branca-verde.BOcg6-1G_2d8p0a.webp 1x, /_astro/logo-movva-branca-verde.BOcg6-1G_ZL8U0.webp 2x" alt="Logotipo da MOVVA" data-astro-cid-j7pv25f6="true" loading="lazy" decoding="async" fetchpriority="auto" width="300" height="68"> </div> <dl class="ficha__dados" data-astro-cid-j7pv25f6> <div data-astro-cid-j7pv25f6><dt data-astro-cid-j7pv25f6>Razão social</dt><dd data-astro-cid-j7pv25f6>MOVVA BRASIL LTDA</dd></div> <div data-astro-cid-j7pv25f6><dt data-astro-cid-j7pv25f6>CNPJ</dt><dd class="dado" data-astro-cid-j7pv25f6>28.450.689/0001-75</dd></div> <div data-astro-cid-j7pv25f6><dt data-astro-cid-j7pv25f6>Ativa desde</dt><dd data-astro-cid-j7pv25f6>18 de agosto de 2017</dd></div> <div data-astro-cid-j7pv25f6><dt data-astro-cid-j7pv25f6>Autorização</dt><dd data-astro-cid-j7pv25f6>Ato nº 9021, de 08 de julho de 2026</dd></div> </dl> </div> <div class="provas" data-astro-cid-j7pv25f6> <a class="prova" href="https://solucoes.receita.fazenda.gov.br/servicos/cnpjreva/cnpjreva_solicitacao.asp" rel="nofollow noopener" data-astro-cid-j7pv25f6> <span class="estado estado--verificado" data-astro-cid-j7pv25f6>Registro público</span> <span class="prova__dado" data-astro-cid-j7pv25f6>CNPJ <span class="dado" data-astro-cid-j7pv25f6>28.450.689/0001-75</span></span> <span class="prova__onde" data-astro-cid-j7pv25f6>Conferir na Receita Federal</span> </a> <a class="prova" href="https://sei.anatel.gov.br/sei/modulos/pesquisa/md_pesq_processo_pesquisar.php?acao_externa=protocolo_pesquisar&acao_origem_externa=protocolo_pesquisar&id_orgao_acesso_externo=0" rel="nofollow noopener" data-astro-cid-j7pv25f6> <span class="estado estado--verificado" data-astro-cid-j7pv25f6>Registro público</span> <span class="prova__dado" data-astro-cid-j7pv25f6>Ato Anatel <span class="dado" data-astro-cid-j7pv25f6>nº 9021</span></span> <span class="prova__onde" data-astro-cid-j7pv25f6>Processo <span class="dado" data-astro-cid-j7pv25f6>53500.063559/2026-13</span></span> </a> <!-- Isto não é dúvida sobre o produto: a dupla conectividade está no
+             material oficial. É o estado do MEU teste, que é outra coisa — e é
+             o que me permite dizer, quando o chip chegar, como foi de verdade. --> <div class="prova prova--aberta" data-astro-cid-j7pv25f6> <span class="estado estado--aberto" data-astro-cid-j7pv25f6>Falta eu testar</span> <span class="prova__dado" data-astro-cid-j7pv25f6>A dupla conectividade TIM + Vivo em campo</span> <span class="prova__onde" data-astro-cid-j7pv25f6>Contratei o plano e o chip ainda não chegou. Publico o teste aqui quando chegar</span> </div> </div> <p data-astro-cid-j7pv25f6> <a href="/movva-e-confiavel" data-astro-cid-j7pv25f6>Leia a análise completa</a>, com os riscos que
         eu encontrei e os meus próprios números — inclusive os ruins.
 </p> </div> </section> <section data-astro-cid-j7pv25f6> <div class="wrap wrap--wide" data-astro-cid-j7pv25f6> <aside class="proximo" data-astro-cid-i42qwlex> <div class="proximo__principal" data-astro-cid-i42qwlex> <p class="eyebrow" data-astro-cid-i42qwlex>Próximo passo</p> <h2 data-astro-cid-i42qwlex>Ficou com dúvida?</h2> <p data-astro-cid-i42qwlex>
 Me manda no WhatsApp. Respondo eu mesmo, e se não souber a resposta eu digo

diff --git a/blog/chip-dois-sinais.html b/blog/chip-dois-sinais.html
@@ -61,7 +61,7 @@ Por Romário Gomes de Paula · publicado em 20 de outubro de 2026  </p> </header
 <p>Permite duas redes atrás da mesma marca. O RGST diz: “O Credenciado pode deter contrato para representação com mais de uma Prestadora Origem em uma determinada Área de Registro” (Resolução 777/2025, Art. 217, parágrafo único). A autorizada também pode, com mais de um contrato de compartilhamento (Art. 241, § 2º); o acordo de visitante tem base própria (Art. 226). A diferença entre credenciada e autorizada está <a href="/blog/o-que-e-operadora-virtual">neste post</a>.</p>
 <p>Com mais de uma origem nasce um dever útil: o credenciado tem de garantir que suas demandas sejam atendidas pela prestadora de origem que suporta o seu acesso (Art. 235, § 1º). Roaming nacional é outra coisa, e nele o roaming permanente é vedado acima de 90 dias corridos — regra que vincula as prestadoras, não você. A cobertura continua sendo da rede hospedeira, como está em <a href="/blog/operadora-virtual-pega-bem">como funciona a cobertura de operadora virtual</a>.</p>
 <h2 id="sobre-a-movva-o-que-eu-posso-e-não-posso-dizer">Sobre a MOVVA: o que eu posso e não posso dizer</h2>
-<p>A empresa anuncia, em material comercial, dupla conectividade TIM e Vivo num único chip. Eu não testei, o chip não chegou, e não localizei página pública dela que sustente essa afirmação técnica — quem a repete são blogs de afiliado, que não são fonte aqui. Não valido nem invalido a promessa: entrego o método.</p>
+<p>A MOVVA publica a dupla conectividade TIM e Vivo num único chip como o primeiro dos seis diferenciais do plano, no material oficial “Diferenciais planos de telefonia MOVVA”. O documento afirma o quê, não o como: não diz se o arranjo é roaming, multi-IMSI ou credenciamento com mais de uma prestadora de origem, que são coisas diferentes e com consequências diferentes para você. E eu não testei, porque o chip não chegou. Não valido nem invalido a promessa: entrego o método.</p>
 <h2 id="como-você-confere-sozinho-quando-o-chip-chegar">Como você confere sozinho quando o chip chegar</h2>
 <ol>
 <li><strong>Desconfie do nome na tela.</strong> Por norma, ao menos 10 redes (MCC+MNC) podem exibir o mesmo nome, e o nome gravado no chip tem prioridade sobre o da rede.</li>

diff --git a/blog/internet-que-acumula.html b/blog/internet-que-acumula.html
@@ -132,8 +132,9 @@ em reais.</li>
 a revalidar.</li>
 <li>Qual é o teto de acúmulo em cada operadora, e o que acontece num atraso de
 fatura.</li>
-<li>Se a MOVVA Brasil acumula franquia e sob quais condições. Não localizei
-regulamento de oferta em fonte primária; o que a empresa anuncia é da empresa.</li>
+<li>Sob quais condições a MOVVA acumula. O material oficial da empresa diz
+“gigas acumulativos infinitos”, sem teto e sem ressalva; o regulamento da
+oferta, que é onde as condições de verdade ficam, eu não localizei.</li>
 </ul>
 <p class="secao-aberta">Onde confirmar: o regulamento da oferta, por escrito, e o 1331.</p>
 <h2 id="o-que-isso-muda-na-sua-escolha">O que isso muda na sua escolha</h2>
